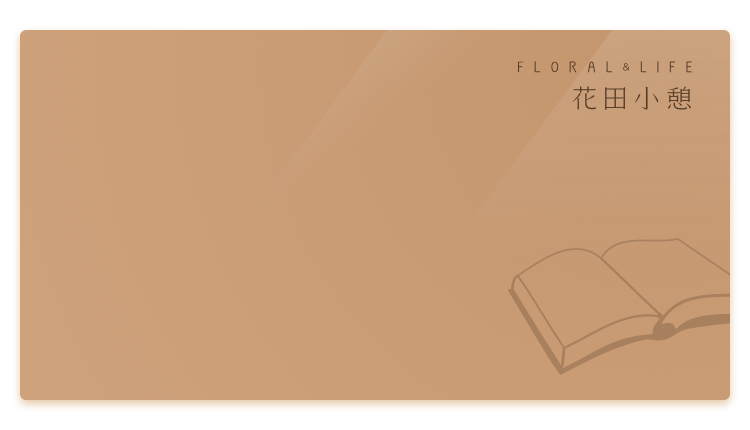
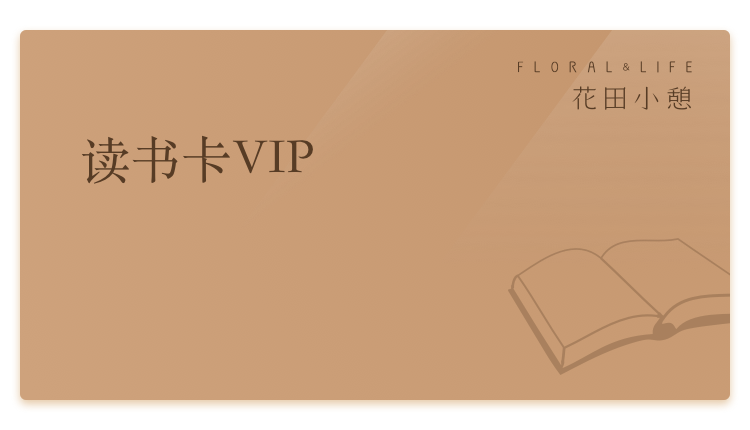
修改bug

Changed region(s): [[0.092, 0.3023, 0.4293, 0.4233]]

diff --git a/bookClub/bookClubCardInApp.html b/bookClub/bookClubCardInApp.html
@@ -23,18 +23,29 @@
 <body>
 <div id="main">
     <div class="card_in_app" v-cloak>
-        <div class="in_header">
+        <div class="in_header" v-if="customerId">
             <img class="header_bg" src="../bookClub/images/card_bg@3x.png" alt="">
             <div class="in_header_t">
                 <img :src="detail.memberIcon" alt="">
                 <div class="t_right">
-                    <div class="right_title">读书卡（年会员）</div>
+                    <div class="right_title">&nbsp;</div>
                     <div class="right_tip">{{ detail.memberName }}</div>
                 </div>
             </div>
             <div class="in_header_b">
                 <div class="b_id">读书卡号码：{{ !detail.isMember ? "暂无" : detail.cardNumber }}</div>
                 <div class="b_time">会员身份：{{ !detail.isMember ? "未开通" : (detail.isExpire ? "已过期" : detail.membership) }}</div>
+            </div>
+        </div>
+        <div class="card_header" v-else>
+            <img class="header_bg" src="../bookClub/images/qian@3x.png" alt="">
+            <div class="header_content">
+                <div class="content_title">&nbsp;</div>
+                <div class="content_tip">听小花老师每周解读一本优质好书</div>
+                <div class="content_price">
+                    <span class="price_val">￥388</span>
+                    <span class="price_txt">/年</span>
+                </div>
             </div>
         </div>
         <div class="in_app_content">
@@ -46,15 +57,19 @@
     var vm = new Vue({
         el: "#main",
         data: {
-            detail: ''
+            detail: '',
+            customerId: ''
         },
         created: function() {
-            this.getDetail()
+            this.customerId = getLocationHrefPara2("customerId");
+            if (this.customerId) {
+                this.getDetail(this.customerId);
+            }
         },
         methods: {
-            getDetail: function() {
+            getDetail: function(customerId) {
                 $.ajax({
-                    url: window.location.origin + "/cactus/bookClub/query/member/card/detail?customerId=" + getLocationHrefPara2("customerId"),
+                    url: window.location.origin + "/cactus/bookClub/query/member/card/detail?customerId=" + customerId,
                     type: 'GET',
                     dataType: 'json',
                     data: {}

diff --git a/js/bookClubDetail.js b/js/bookClubDetail.js
@@ -83,8 +83,8 @@ var vm = new Vue({
                         vm.detail = json.data;
                         var reg = /[\r\n]+/g;
                         vm.detail.authorIntro = vm.detail.authorIntro.replace(reg, "<br />");
-                        vm.detail.bookIntro = vm.detail.authorIntro.replace(reg, "<br />");
-                        vm.detail.publishIntro = vm.detail.authorIntro.replace(reg, "<br />");
+                        vm.detail.bookIntro = vm.detail.bookIntro.replace(reg, "<br />");
+                        vm.detail.publishIntro = vm.detail.publishIntro.replace(reg, "<br />");
                     } else {
                         showWrong(json.text);
                     }

diff --git a/bookClubGroupFail.html b/bookClubGroupFail.html
@@ -75,7 +75,7 @@
 				<li class="active_t" >活动规则:</li>
 				<li class="active_title">1， 拼团失败：24小时内钱款原路退回。</li>
 				<li class="active_title">2，会员生效：拼团成功后生效（非付款成功）。</li>
-				<li class="active_title">3，身份使用：用购买的手机号登录花田小憩App即可。</li>
+				<li class="active_title">3，身份使用：用购买的手机号登录花田小憩App“读书会”即可。</li>
                 <li class="active_title">* 客服电话 010-56270610（工作时间） 管理员微信号：htxq02</li>
 			</ul>
 		</div>

diff --git a/bookClubGroupSuccess.html b/bookClubGroupSuccess.html
@@ -73,7 +73,7 @@
 				<li class="active_t" >活动规则:</li>
 				<li class="active_title">1， 拼团失败：24小时内钱款原路退回。</li>
 				<li class="active_title">2，会员生效：拼团成功后生效（非付款成功）。</li>
-				<li class="active_title">3，身份使用：用购买的手机号登录花田小憩App即可。</li>
+				<li class="active_title">3，身份使用：用购买的手机号登录花田小憩App“读书会”即可。</li>
                 <li class="active_title">* 客服电话 010-56270610（工作时间） 管理员微信号：htxq02</li>
 			</ul>
 		</div>

diff --git a/bookBuyCard.html b/bookBuyCard.html
@@ -31,7 +31,7 @@
         <div class="card_header">
             <img class="header_bg" src="bookClub/images/qian@3x.png" alt="">
             <div class="header_content">
-                <div class="content_title">读书卡VIP</div>
+                <div class="content_title">&nbsp;</div>
                 <div class="content_tip">听小花老师每周解读一本优质好书</div>
                 <div class="content_price">
                     <span class="price_val">￥388</span>

diff --git a/html/bookClubDetail.html b/html/bookClubDetail.html
@@ -75,7 +75,7 @@
             <div class="fixed_txt fl">{{ detail.pageFooterTitle }}</div>
             <div class="fixed_btn fr">立即购买</div>
         </div>
-        <audio ref="audio" loop :src="audioSrc"></audio>
+        <audio ref="audio" loop :src="audioSrc" v-if="audioSrc"></audio>
     </div>
 </div>
 <script type="text/javascript" preload="auto" src="../js/bookClubDetail.js"></script>
